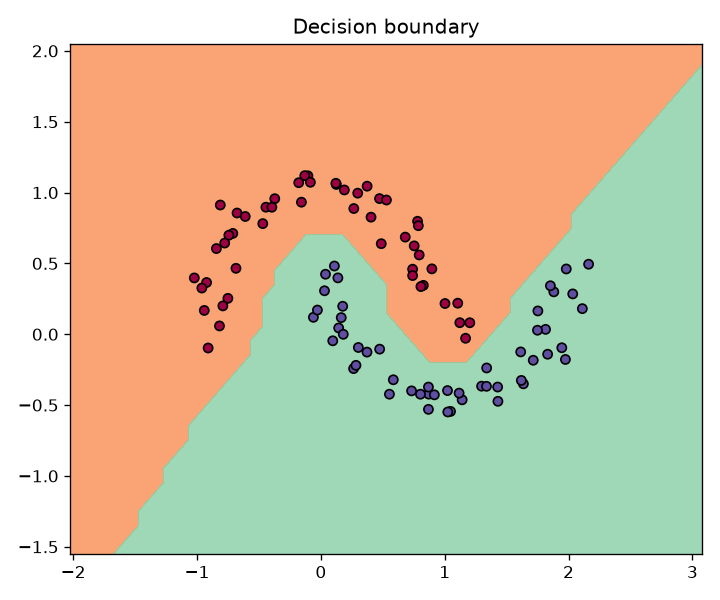
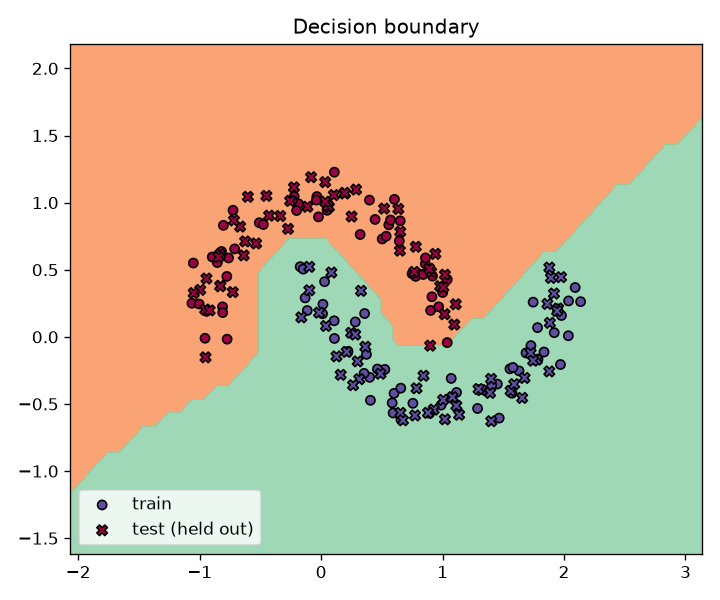
feat: held-out test split in train_moons, report test accuracy

diff --git a/examples/train_moons.py b/examples/train_moons.py
@@ -12,6 +12,7 @@ matplotlib.use("Agg")  # write PNGs without needing a display
 import matplotlib.pyplot as plt
 import numpy as np
 from sklearn.datasets import make_moons
+from sklearn.model_selection import train_test_split
 
 from autograd_numpy import MLP, Value
 
@@ -30,8 +31,11 @@ def loss_and_accuracy(model: MLP, X: np.ndarray, y: np.ndarray, alpha: float = 1
 
 
 def main(steps: int = 100, seed: int = 1337) -> None:
-    X, y = make_moons(n_samples=100, noise=0.1, random_state=seed)
+    X, y = make_moons(n_samples=200, noise=0.1, random_state=seed)
     y = y * 2 - 1  # labels {0, 1} -> {-1, +1} for the margin loss
+    # Hold out half the points: the model never trains on them, so test accuracy measures
+    # generalization instead of memorization. stratify keeps the class balance equal in both halves.
+    X, X_test, y, y_test = train_test_split(X, y, test_size=0.5, random_state=seed, stratify=y)
 
     model = MLP(2, [16, 16, 1], seed=seed)
     print(model, f"\n{len(model.parameters())} parameters")
@@ -48,9 +52,14 @@ def main(steps: int = 100, seed: int = 1337) -> None:
         if k % 10 == 0 or k == steps - 1:
             print(f"step {k:3d}  loss {loss.data:.4f}  accuracy {acc:.0%}")
 
+    _, test_acc = loss_and_accuracy(model, X_test, y_test)
+    print(
+        f"train accuracy {history[-1][1]:.0%}  test accuracy {test_acc:.0%} ({len(y_test)} held-out points)"
+    )
+
     ASSETS.mkdir(exist_ok=True)
     plot_history(history)
-    plot_boundary(model, X, y)
+    plot_boundary(model, X, y, X_test, y_test)
 
 
 def plot_history(history: list[tuple[float, float]]) -> None:
@@ -69,7 +78,9 @@ def plot_history(history: list[tuple[float, float]]) -> None:
     plt.close(fig)
 
 
-def plot_boundary(model: MLP, X: np.ndarray, y: np.ndarray, h: float = 0.1) -> None:
+def plot_boundary(
+    model: MLP, X: np.ndarray, y: np.ndarray, X_test: np.ndarray, y_test: np.ndarray, h: float = 0.1
+) -> None:
     xx, yy = np.meshgrid(
         np.arange(X[:, 0].min() - 1, X[:, 0].max() + 1, h),
         np.arange(X[:, 1].min() - 1, X[:, 1].max() + 1, h),
@@ -78,7 +89,18 @@ def plot_boundary(model: MLP, X: np.ndarray, y: np.ndarray, h: float = 0.1) -> N
     Z = np.array([model(list(map(float, p)))[0].data > 0 for p in grid]).reshape(xx.shape)
     fig, ax = plt.subplots(figsize=(6, 5))
     ax.contourf(xx, yy, Z, cmap=plt.cm.Spectral, alpha=0.8)
-    ax.scatter(X[:, 0], X[:, 1], c=y, s=30, cmap=plt.cm.Spectral, edgecolors="k")
+    ax.scatter(X[:, 0], X[:, 1], c=y, s=30, cmap=plt.cm.Spectral, edgecolors="k", label="train")
+    ax.scatter(
+        X_test[:, 0],
+        X_test[:, 1],
+        c=y_test,
+        s=40,
+        cmap=plt.cm.Spectral,
+        marker="X",
+        edgecolors="k",
+        label="test (held out)",
+    )
+    ax.legend(loc="lower left")
     ax.set_title("Decision boundary")
     fig.tight_layout()
     fig.savefig(ASSETS / "decision_boundary.png", dpi=120)
